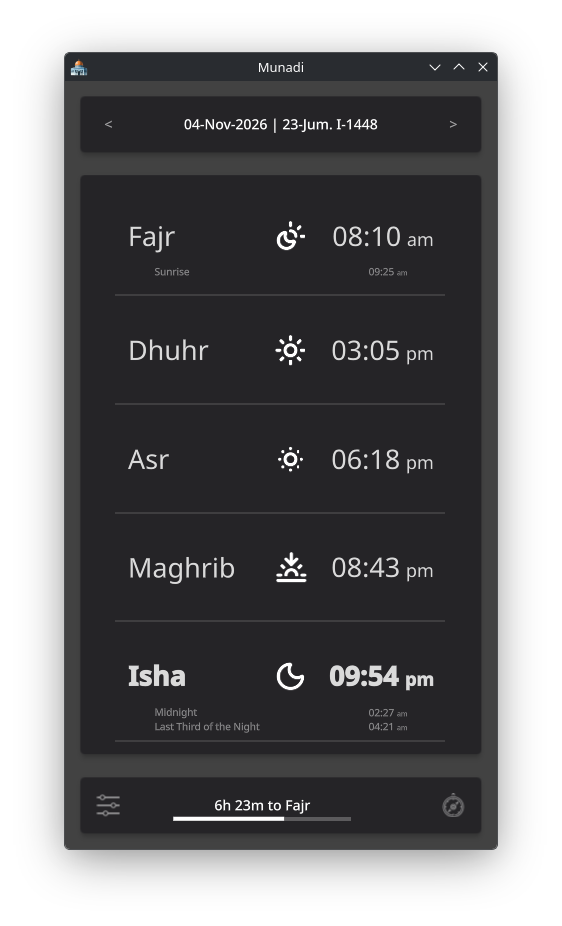
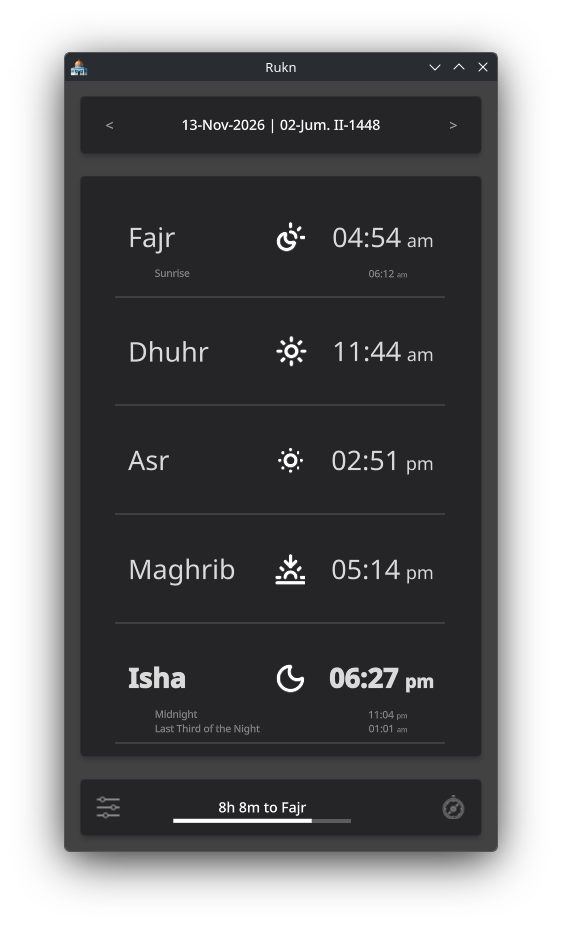
# FIX: time-left display is not updated on time-jumps
Fixed an issue with time-left string not updated for time-jumps until next minute and added
screenshots

---

- **screenshots/2611/**
  - Updated screenshots

- **src/cpp/UiEngine.{hpp,cpp}**
  - Date refresh is not necessary on `adhanPlayingChanged()` signal. Removing it makes
    `onAdhanPlayingChanged()` trivial as a forward-relay signal to `timeChanged()`. Drop the slot,
    and `connectToAdhanPlayingChanged()` and use the connection directly in constructor.
  - FIX: time-left display is not updated on time-jumps

    `timeChanged()` was not coupled to `CoreEngine::alarmsReset()` which was previously relying on
    `calcChanged()`.

  - `onAlarmsReset()` and `onDateChanged()` becomes identical following previous fix. Drop
    `onAlarmsReset()` and connect the signal to `onDateChanged()` instead.
  - Drop `connectToMinuteChanged()` method too since it's a trivial forward-relayer to
    `timeChanged()`. Use the connection method directly.

diff --git a/src/cpp/UiEngine.cpp b/src/cpp/UiEngine.cpp
@@ -41,7 +41,7 @@ UiEngine::UiEngine(QObject *parent) : AppBase{cat(), parent} {
   this->bootEngine();
   this->connectToCalcChanged();
   PrayerEngine::onceOnline(this, [this] -> void { this->onPrayerEngineOnline(); });
-  this->connectToAdhanPlayingChanged();
+  QObject::connect(mEngine, &MultimediaEngine::adhanPlayingChanged, this, &UiEngine::timeChanged);
   this->makeOnline();
 }
 
@@ -61,20 +61,11 @@ QVariantList &UiEngine::calendarDisplayNames() noexcept { return this->m_calenda
 
 void UiEngine::connectToAlarmsReset() const noexcept {
   if (const auto conn =
-          QObject::connect(core, &CoreEngine::alarmsReset, this, &UiEngine::onAlarmsReset);
+          QObject::connect(core, &CoreEngine::alarmsReset, this, &UiEngine::onDateChanged);
       conn == nullptr)
     logWarning(cat) << "alarmsReset signal not connected";
   else
     logDebug(cat) << "alarmsReset signal connected";
-}
-
-void UiEngine::connectToAdhanPlayingChanged() const noexcept {
-  if (const auto conn = QObject::connect(mEngine, &MultimediaEngine::adhanPlayingChanged, this,
-                                         &UiEngine::onAdhanPlayingChanged);
-      conn == nullptr)
-    logWarning(cat) << "adhanPlayingChanged signal not connected";
-  else
-    logDebug(cat) << "adhanPlayingChanged signal connected";
 }
 
 void UiEngine::connectToCalcChanged() const noexcept {
@@ -102,15 +93,6 @@ void UiEngine::connectToLocaleChanged() const noexcept {
     logWarning(cat) << "localeChanged signal not connected";
   else
     logDebug(cat) << "localeChanged signal connected";
-}
-
-void UiEngine::connectToMinuteChanged() const noexcept {
-  if (const auto conn =
-          QObject::connect(core, &CoreEngine::minuteChanged, this, &UiEngine::timeChanged);
-      conn == nullptr)
-    logWarning(cat) << "minuteChanged signal not connected";
-  else
-    logDebug(cat) << "minuteChanged signal connected";
 }
 
 void UiEngine::defaultConfigs() noexcept {
@@ -430,16 +412,6 @@ void UiEngine::updateConfigs() noexcept {
 //  Private Slots
 ////////////////////////////////////////////////////////////////////////////////////////////////////
 
-void UiEngine::onAlarmsReset() noexcept {
-  this->initCalendarDates();
-  emit this->calendarChanged();
-}
-
-void UiEngine::onAdhanPlayingChanged(bool /* playing */) noexcept {
-  emit this->calendarChanged();
-  emit this->timeChanged();
-}
-
 void UiEngine::onCalcChanged() noexcept {
   this->updateConfigs();
   emit this->prayerCalcChanged();
@@ -452,7 +424,7 @@ void UiEngine::onCoreOnline() noexcept {
   this->initTexts();
   this->connectToAlarmsReset();
   this->connectToDateChanged();
-  this->connectToMinuteChanged();
+  QObject::connect(core, &CoreEngine::minuteChanged, this, &UiEngine::timeChanged);
   this->connectToCoreOffline();
 }
 

diff --git a/src/cpp/UiEngine.hpp b/src/cpp/UiEngine.hpp
@@ -135,11 +135,9 @@ private:
   auto calendarDateDisplay() noexcept -> QString;
   auto calendarDisplayNames() noexcept -> QVariantList &;
   void connectToAlarmsReset() const noexcept;
-  void connectToAdhanPlayingChanged() const noexcept;
   void connectToCalcChanged() const noexcept;
   void connectToDateChanged() const noexcept;
   void connectToLocaleChanged() const noexcept;
-  void connectToMinuteChanged() const noexcept;
 
   /**
    * @brief Customized override of `AppBase::defaultConfigs()`. See
@@ -192,8 +190,6 @@ signals:
   void translationChanged();
 
 private slots:
-  void onAlarmsReset() noexcept;
-  void onAdhanPlayingChanged(bool playing) noexcept;
   void onCalcChanged() noexcept;
   void onDateChanged() noexcept;
   void onPrayerEngineOnline() noexcept;
